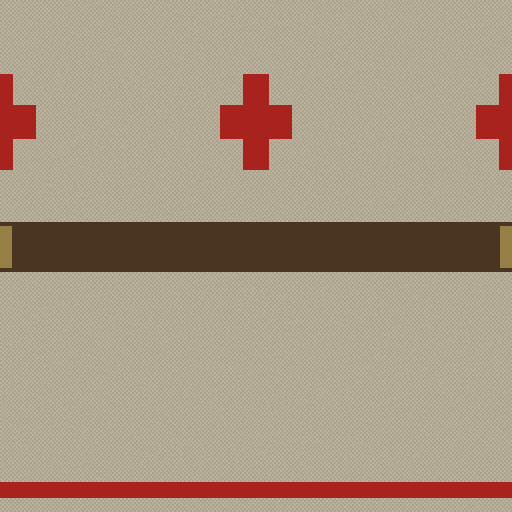
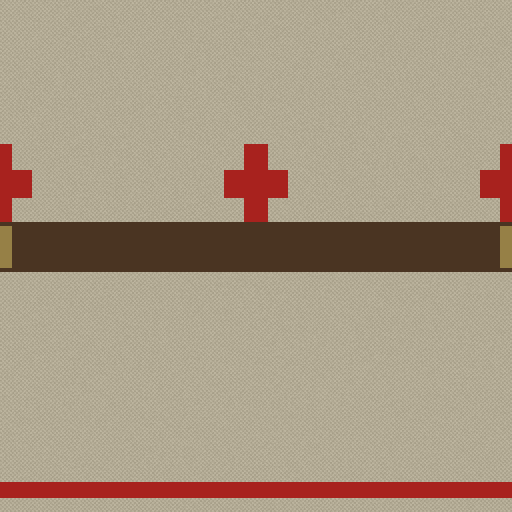
Field Medic Tunic: cross below the hood's hem; worn_look --paint
Rendered on the real rig (worn_look under lavapipe), a hood covered the
chest cross, so it sits lower. worn_look takes --paint skin.png to dress a
body in a painted tunic.

Claude-Session: https://claude.ai/code/session_01CwWAEY4ejY3aeHjp85AZ9j

diff --git a/crates/client/examples/worn_look.rs b/crates/client/examples/worn_look.rs
@@ -5,8 +5,11 @@
 //! cargo build --release -p client --features render,native --example worn_look
 //! Xvfb :99 -screen 0 1280x720x24 &
 //! VK_DRIVER_FILES=/usr/share/vulkan/icd.d/lvp_icd.json DISPLAY=:99 WGPU_BACKEND=vulkan \
-//!   target/release/examples/worn_look /tmp/shots
+//!   target/release/examples/worn_look /tmp/shots [--paint skin.png]
 //! ```
+//!
+//! `--paint` dresses the second body's tunic in a painted skin (wire v110,
+//! `render::paint`): the picture `skinkit` checked, on the game's own mesh.
 
 use std::path::PathBuf;
 
@@ -30,6 +33,14 @@ const SETTLE_FRAMES: u32 = 40;
 #[derive(Resource)]
 struct Out(PathBuf);
 
+/// The painted tunic, when asked for: (side, RGBA8 level 0) until it is an
+/// image, then its handle.
+#[derive(Resource, Default)]
+struct Paint {
+    pixels: Option<(u32, Vec<u8>)>,
+    image: Option<Handle<Image>>,
+}
+
 #[derive(Resource, Default)]
 struct Shots {
     frame: u32,
@@ -46,6 +57,24 @@ fn main() -> AppExit {
         return AppExit::from_code(2);
     };
     let dir = PathBuf::from(dir);
+    let mut paint = Paint::default();
+    let args: Vec<String> = std::env::args().collect();
+    if let Some(i) = args.iter().position(|a| a == "--paint") {
+        let Some(path) = args.get(i + 1) else {
+            eprintln!("worn_look: --paint needs a PNG");
+            return AppExit::from_code(2);
+        };
+        match std::fs::read(path)
+            .map_err(|e| e.to_string())
+            .and_then(|b| client::render::paint::pixels(&b))
+        {
+            Ok(px) => paint.pixels = Some(px),
+            Err(e) => {
+                eprintln!("worn_look: {path}: {e}");
+                return AppExit::from_code(2);
+            }
+        }
+    }
     if let Err(e) = std::fs::create_dir_all(&dir) {
         eprintln!("worn_look: {e}");
         return AppExit::from_code(2);
@@ -69,6 +98,7 @@ fn main() -> AppExit {
     );
     app.insert_resource(ClearColor(Color::srgb(0.62, 0.68, 0.74)));
     app.insert_resource(Out(dir));
+    app.insert_resource(paint);
     app.insert_resource(Shots::default());
     app.add_systems(Startup, (client::render::worn::load, stage));
     app.add_systems(Update, (client::render::worn::bind, dress, shoot).chain());
@@ -80,7 +110,12 @@ fn stage(
     assets: Res<AssetServer>,
     mut meshes: ResMut<Assets<Mesh>>,
     mut materials: ResMut<Assets<StandardMaterial>>,
+    mut images: ResMut<Assets<Image>>,
+    mut paint: ResMut<Paint>,
 ) {
+    if let Some((side, px)) = paint.pixels.take() {
+        paint.image = Some(images.add(client::render::paint::image(side, px)));
+    }
     commands.spawn((
         Camera3d::default(),
         Eye,
@@ -121,6 +156,8 @@ fn dress(
     skins: Query<&SkinnedMesh>,
     mut bodies: Query<(&Body, &mut WornRig)>,
     mut shots: ResMut<Shots>,
+    mut materials: ResMut<Assets<StandardMaterial>>,
+    paint: Res<Paint>,
 ) {
     let Some(kit) = kit else { return };
     let mut all = !bodies.is_empty();
@@ -143,7 +180,18 @@ fn dress(
             ibm,
             &mut rig,
             OUTFITS[(body.0 as usize - 1) % OUTFITS.len()],
-            |_, plain| plain.clone(),
+            |slot, plain| {
+                // The second body's tunic (slot 1 of hood, tunic), painted.
+                match (&paint.image, body.0 == 2 && slot == 1) {
+                    (Some(img), true) => match materials.get(plain).cloned() {
+                        Some(base) => {
+                            materials.add(client::render::paint::painted(&base, img.clone()))
+                        }
+                        None => plain.clone(),
+                    },
+                    _ => plain.clone(),
+                }
+            },
         );
     }
     if all && bodies.iter().count() == OUTFITS.len() {

diff --git a/assets/skins/draw_field_medic.py b/assets/skins/draw_field_medic.py
@@ -39,14 +39,15 @@ def main() -> None:
                 px[x % SIDE, y] = col
 
     def cross(cx, cy):
-        # Chest height (v about 0.24 of the image), a square cross on cloth
-        # that is wider around than it is tall per texel.
-        arm_w, arm_h = 26, 34
-        long_u, long_v = 72, 96
+        # Below the hood's hem (v about 0.36 of the image: a hood covers the
+        # chest above it), a square cross on cloth that is wider around than
+        # it is tall per texel.
+        arm_w, arm_h = 24, 28
+        long_u, long_v = 64, 80
         rect(cx - long_u // 2, cy - arm_h // 2, cx + long_u // 2, cy + arm_h // 2, RED)
         rect(cx - arm_w // 2, cy - long_v // 2, cx + arm_w // 2, cy + long_v // 2, RED)
 
-    cy = int(0.24 * SIDE)
+    cy = int(0.36 * SIDE)
     cross(0, cy)            # the chest: wraps the left and right edges
     cross(SIDE // 2, cy)    # the back
     # The belt at the waist (the halves meet at v 0.5), a buckle at the chest.

diff --git a/crates/client/src/render/paint.rs b/crates/client/src/render/paint.rs
@@ -114,7 +114,9 @@ impl Paints {
     }
 }
 
-fn image(side: u32, level0: Vec<u8>) -> Image {
+/// A painted skin's level 0 as the image the game draws: its mip chain,
+/// sRGB, wrapped around in U. Public for the benches (`examples/worn_look`).
+pub fn image(side: u32, level0: Vec<u8>) -> Image {
     let data = mipmap::chain(&level0, side, side, mipmap::Filter::Srgb);
     let mut img = Image::new(
         Extent3d {

diff --git a/assets/skins/MANIFEST.md b/assets/skins/MANIFEST.md
@@ -12,4 +12,4 @@ another game's art. A row is required: a PNG with no row does not ship.
 
 | file | item | maker | licence | sha256 |
 |---|---|---|---|---|
[2 lines of base64/hex data omitted]
